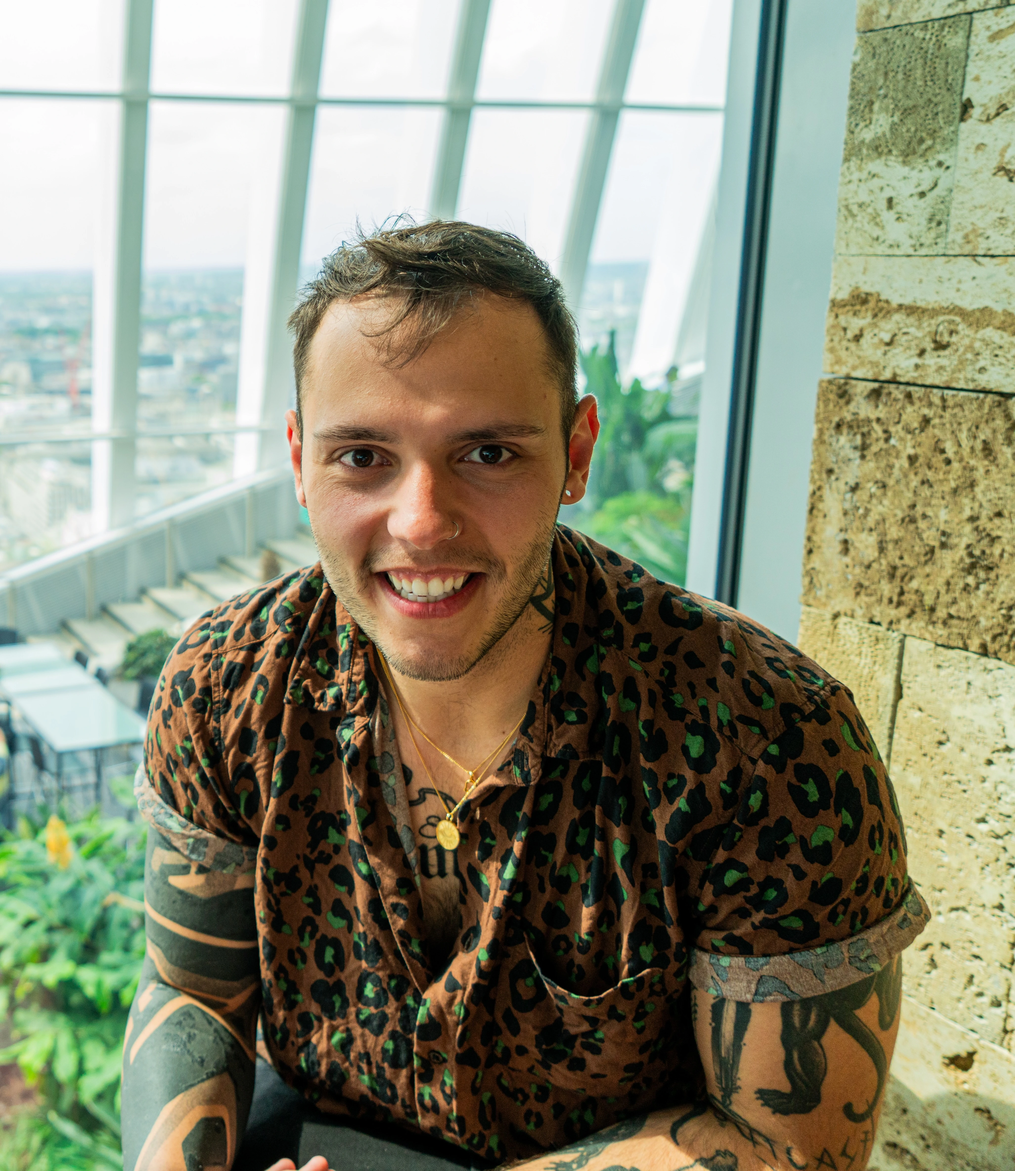
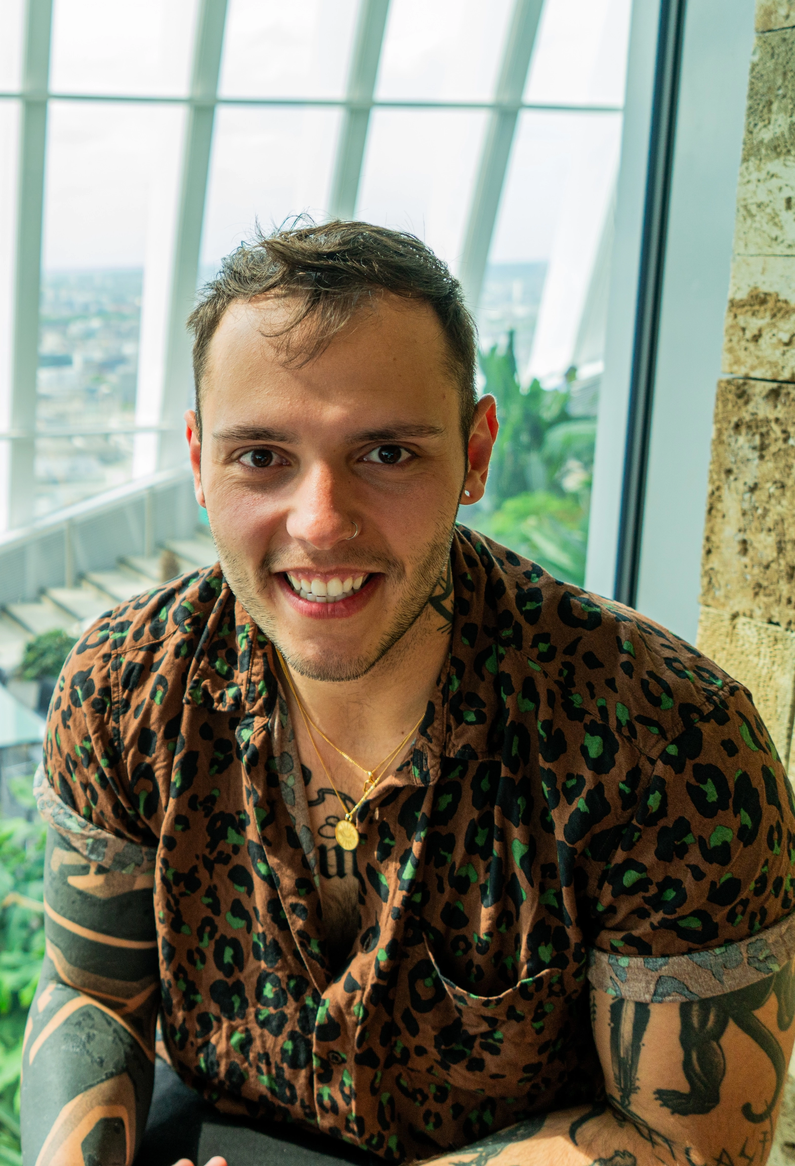
Add: added basic structure for the about page

diff --git a/about.html b/about.html
@@ -28,8 +28,28 @@
     <main>
         <div class="about-title">
             <p>About&nbsp;</p>
-            <img src="/assets/images/valentino.webp" width="310" height="400">
+            <img src="/assets/images/valentino.webp" width="200" height="300">
             <p>&nbsp;Me</p>
+        </div>
+        <div class="box-about clearfix">
+            <p class="about-subtitle">
+                I'm a software engineer and MSc Computer Science student at UCD, specializing in dynamic, 
+                responsive, and interactive digital experiences.
+            </p>
+            <p>
+                In 2021, I graduated with a First Class Bachelor's degree in Law from Estácio de Sá University in Brazil. 
+                After completing my degree, I decided to move to Ireland in search of new opportunities and challenges. <br/><br/>
+                Once in Ireland, I made the decision to shift my career focus. I enrolled in a Bootcamp with Code Institute
+                and graduated in 2023, acquiring skills in web development and coding. <br/><br/>With over 6 years of experience
+                in customer service, I am now fully committed to my new path and currently pursuing my MSc in Computer Science
+                at University College Dublin (UCD).
+            </p>
+        </div>
+        <div>
+            <p>Awards and Recognitions</p>
+        </div>
+        <div>
+            <p>Tech Stack</p>
         </div>
     </main>
     <footer class="main-footer">

diff --git a/assets/css/style.css b/assets/css/style.css
@@ -202,7 +202,7 @@ a:visited {
     margin-bottom: 80px;
 }
 
-/* Used this artcile as a reference to create a gradient button: https://www.shecodes.io/athena/2016-css-gradients-how-to-create-a-button-with-neon-effect and https://codepen.io/pirrera/pen/bqVeGx */
+/* Used this artcile as a reference to create a gradient button to match the design from the website I write for: https://www.shecodes.io/athena/2016-css-gradients-how-to-create-a-button-with-neon-effect and https://codepen.io/pirrera/pen/bqVeGx */
 .codu-button {
     background-image: linear-gradient(to right, #fb923c 0%, #fb923c 31%, #db2777 100%);
     color: transparent;
@@ -241,9 +241,15 @@ a:visited {
 
 /* About */
 
+.box-about {
+    width: 900px;
+    margin: auto;
+}
+
 .about-title {
     font-family: Valentino, sans-serif;
     text-align: center;
+    margin-bottom: 80px;
 }
 
 .about-title p, .about-title img {
@@ -257,6 +263,26 @@ a:visited {
 
 .about-title img {
     border-radius: 30px;
+}
+
+.about-subtitle {
+    text-transform: uppercase;
+    font-weight: bold;
+    font-size: 20px;
+    text-align: justify;
+}
+
+.box-about p:first-of-type {
+    width: 700px;
+    margin-bottom: 80px;
+    float: left;
+}
+
+.box-about p:nth-of-type(2) {
+    width: 700px;
+    margin-bottom: 60px;
+    text-align: justify;
+    float: right;
 }
 
 
